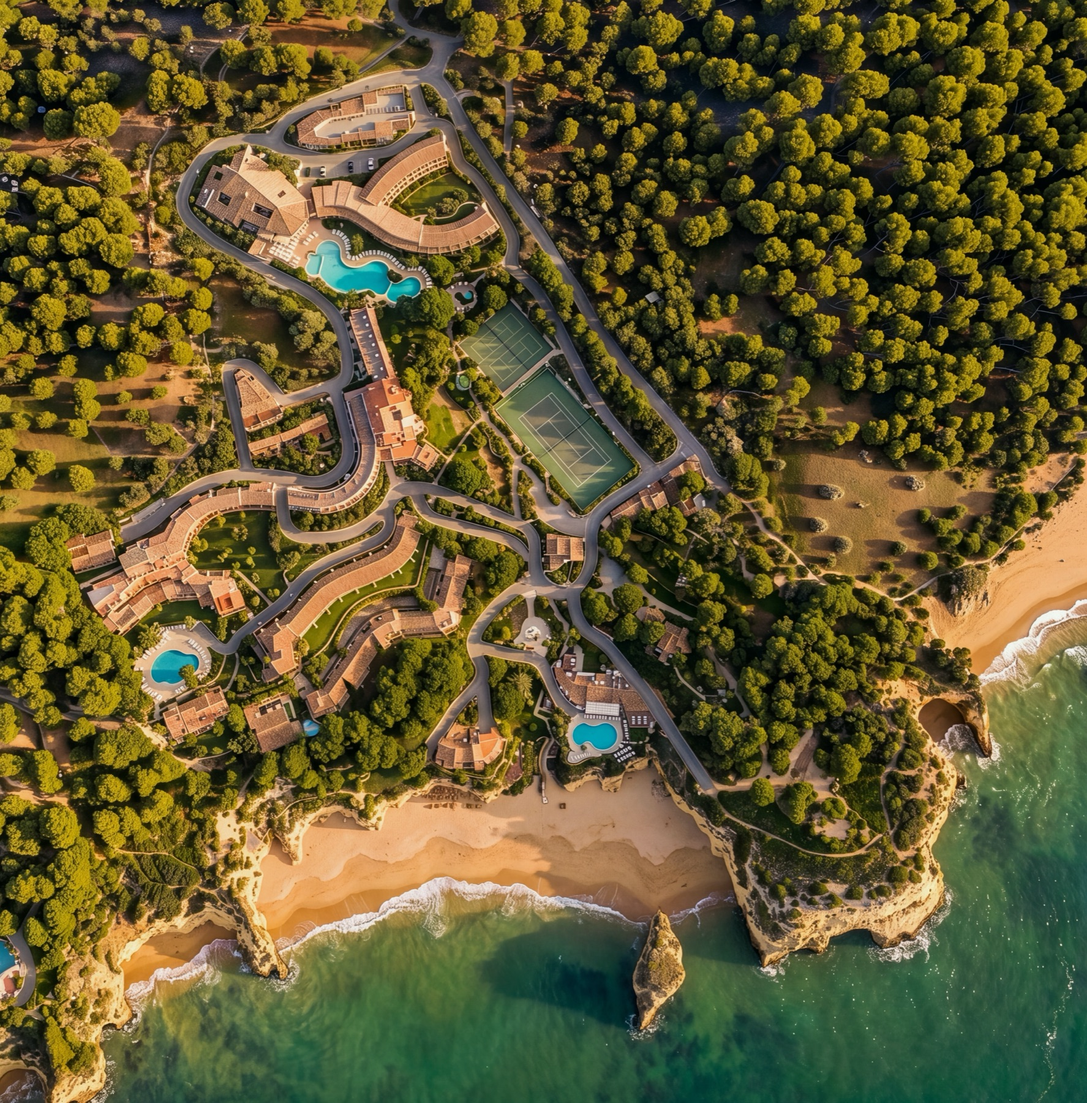
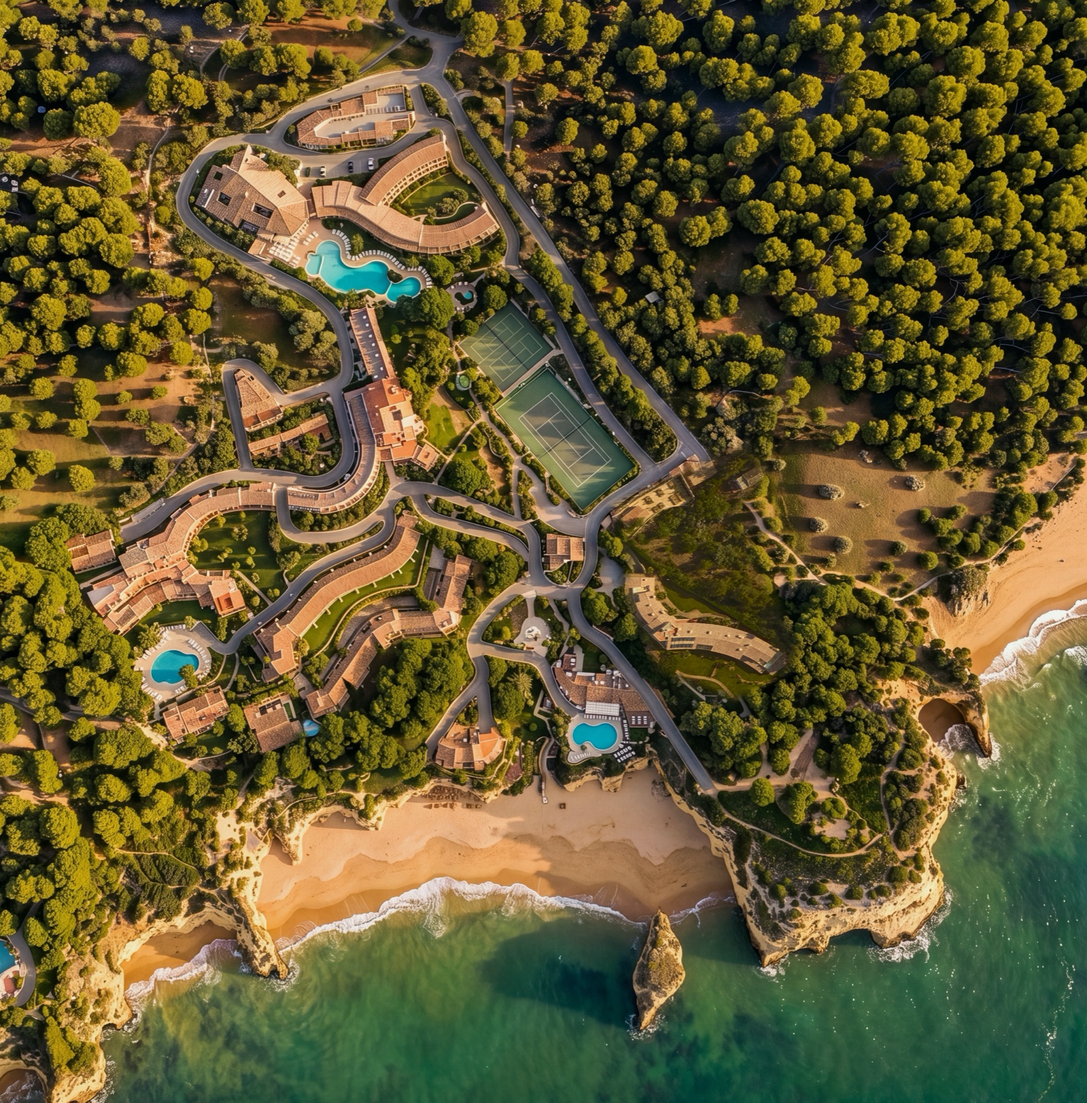
Descobrir hotel: edifícios de The Cliff Residences e Raízes visíveis na foto aérea

Changed region(s): [[0.5577, 0.4044, 0.7437, 0.6533]]

diff --git a/explorar.html b/explorar.html
@@ -57,7 +57,7 @@
 
     <div class="explorar__cena" data-cena>
       <div class="explorar__mapa" data-mapa>
-        <img class="explorar__img" src="assets/img/explorar/foto-m.jpg?v=3" data-grande="assets/img/explorar/foto.jpg?v=3" alt="Vista aérea do Vilalara: edifícios entre o pinhal, piscinas, campos de ténis e a Praia das Gaivotas" draggable="false">
+        <img class="explorar__img" src="assets/img/explorar/foto-m.jpg?v=6" data-grande="assets/img/explorar/foto.jpg?v=6" alt="Vista aérea do Vilalara: edifícios entre o pinhal, piscinas, campos de ténis e a Praia das Gaivotas" draggable="false">
         <div class="explorar__nuvens" aria-hidden="true"></div>
         <div class="explorar__luz" aria-hidden="true"></div>
         <div class="explorar__pontos" data-pontos></div>
